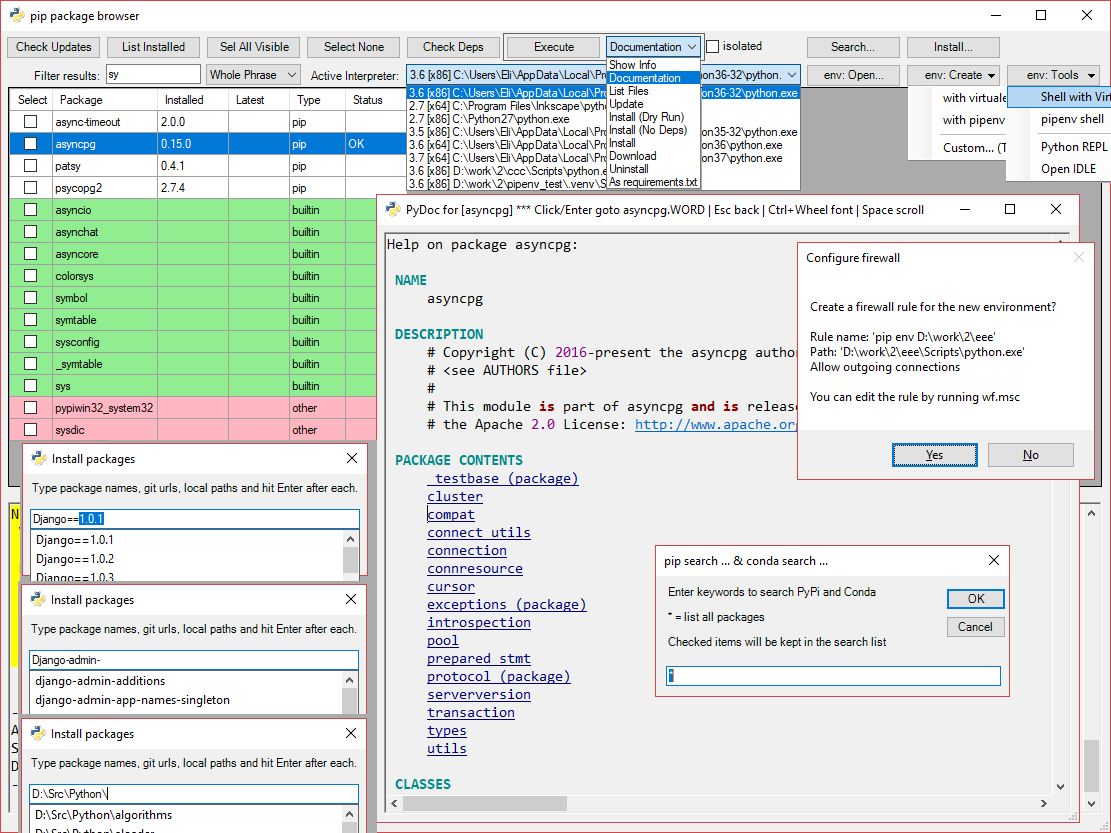
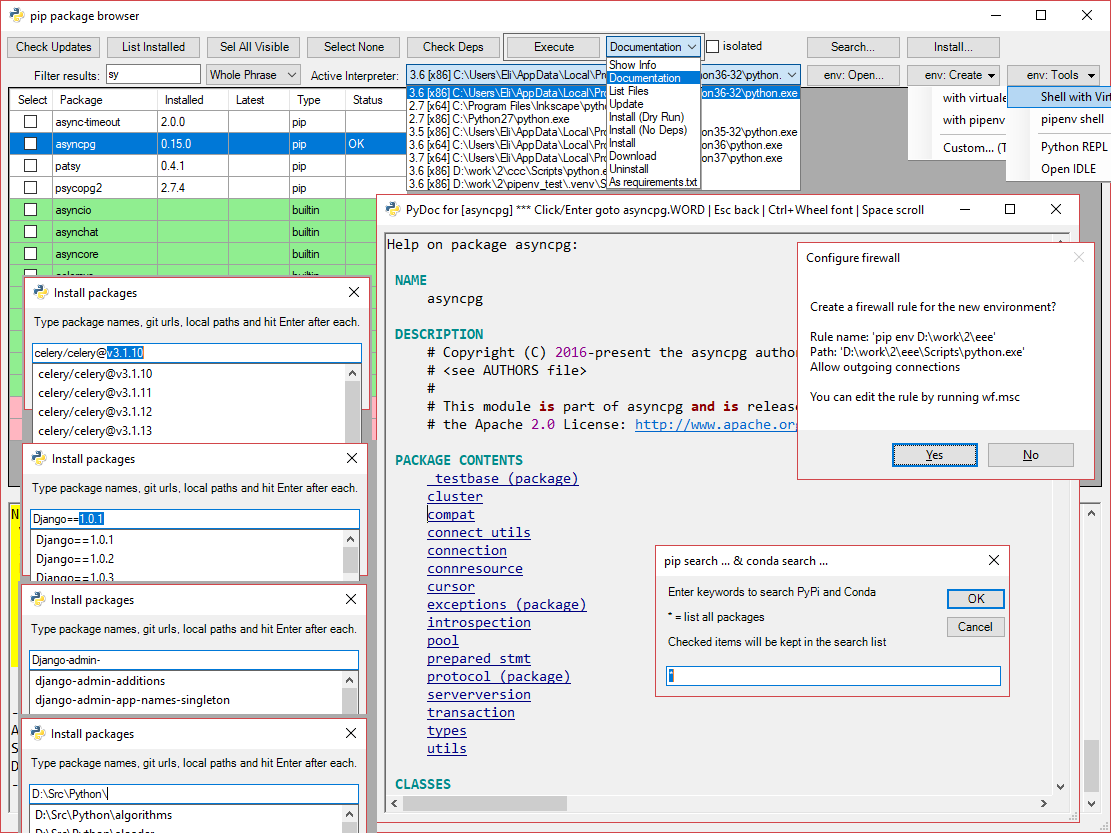
Completion for git tags: git_link@tag

Changed region(s): [[0.0, 0.3121, 0.3366, 0.5306]]

diff --git a/README.md b/README.md
@@ -17,7 +17,7 @@ This script helps to keep packages updated.
 - Manage environments
 - Filter and sort packages
 - Documentation viewer with simple highlighting and browser-like navigation
-- Completion for packages, versions, paths
+- Completion for packages, versions, paths, git tags
 
 
 ![](screenshot.png)
